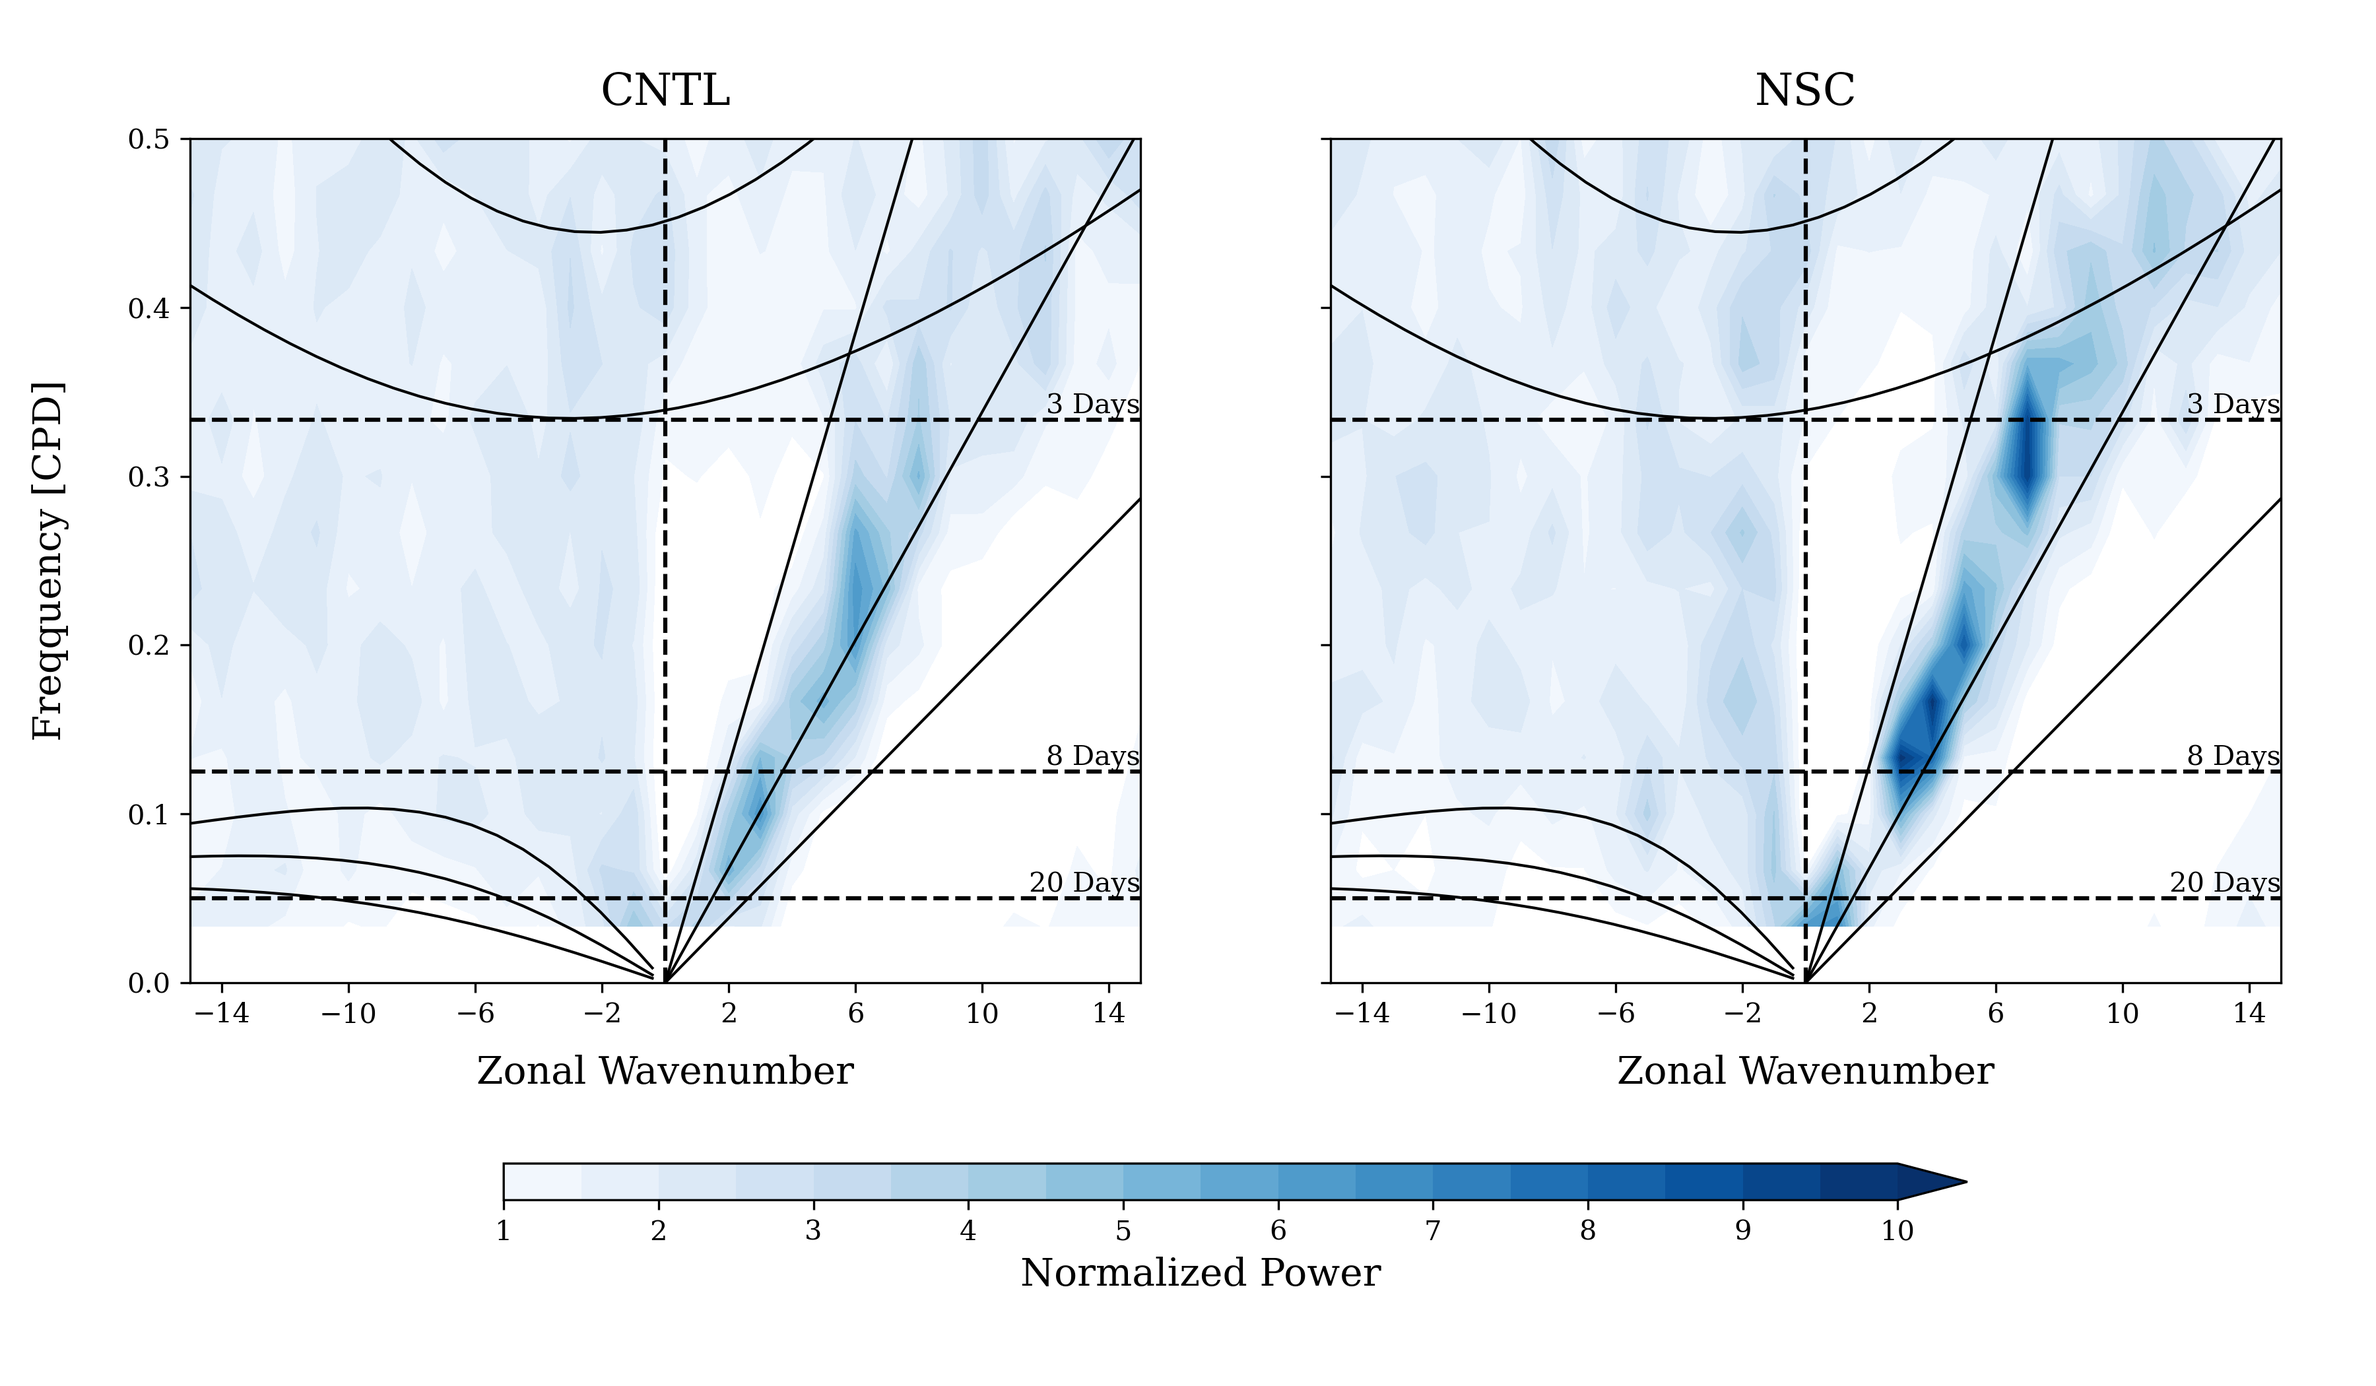
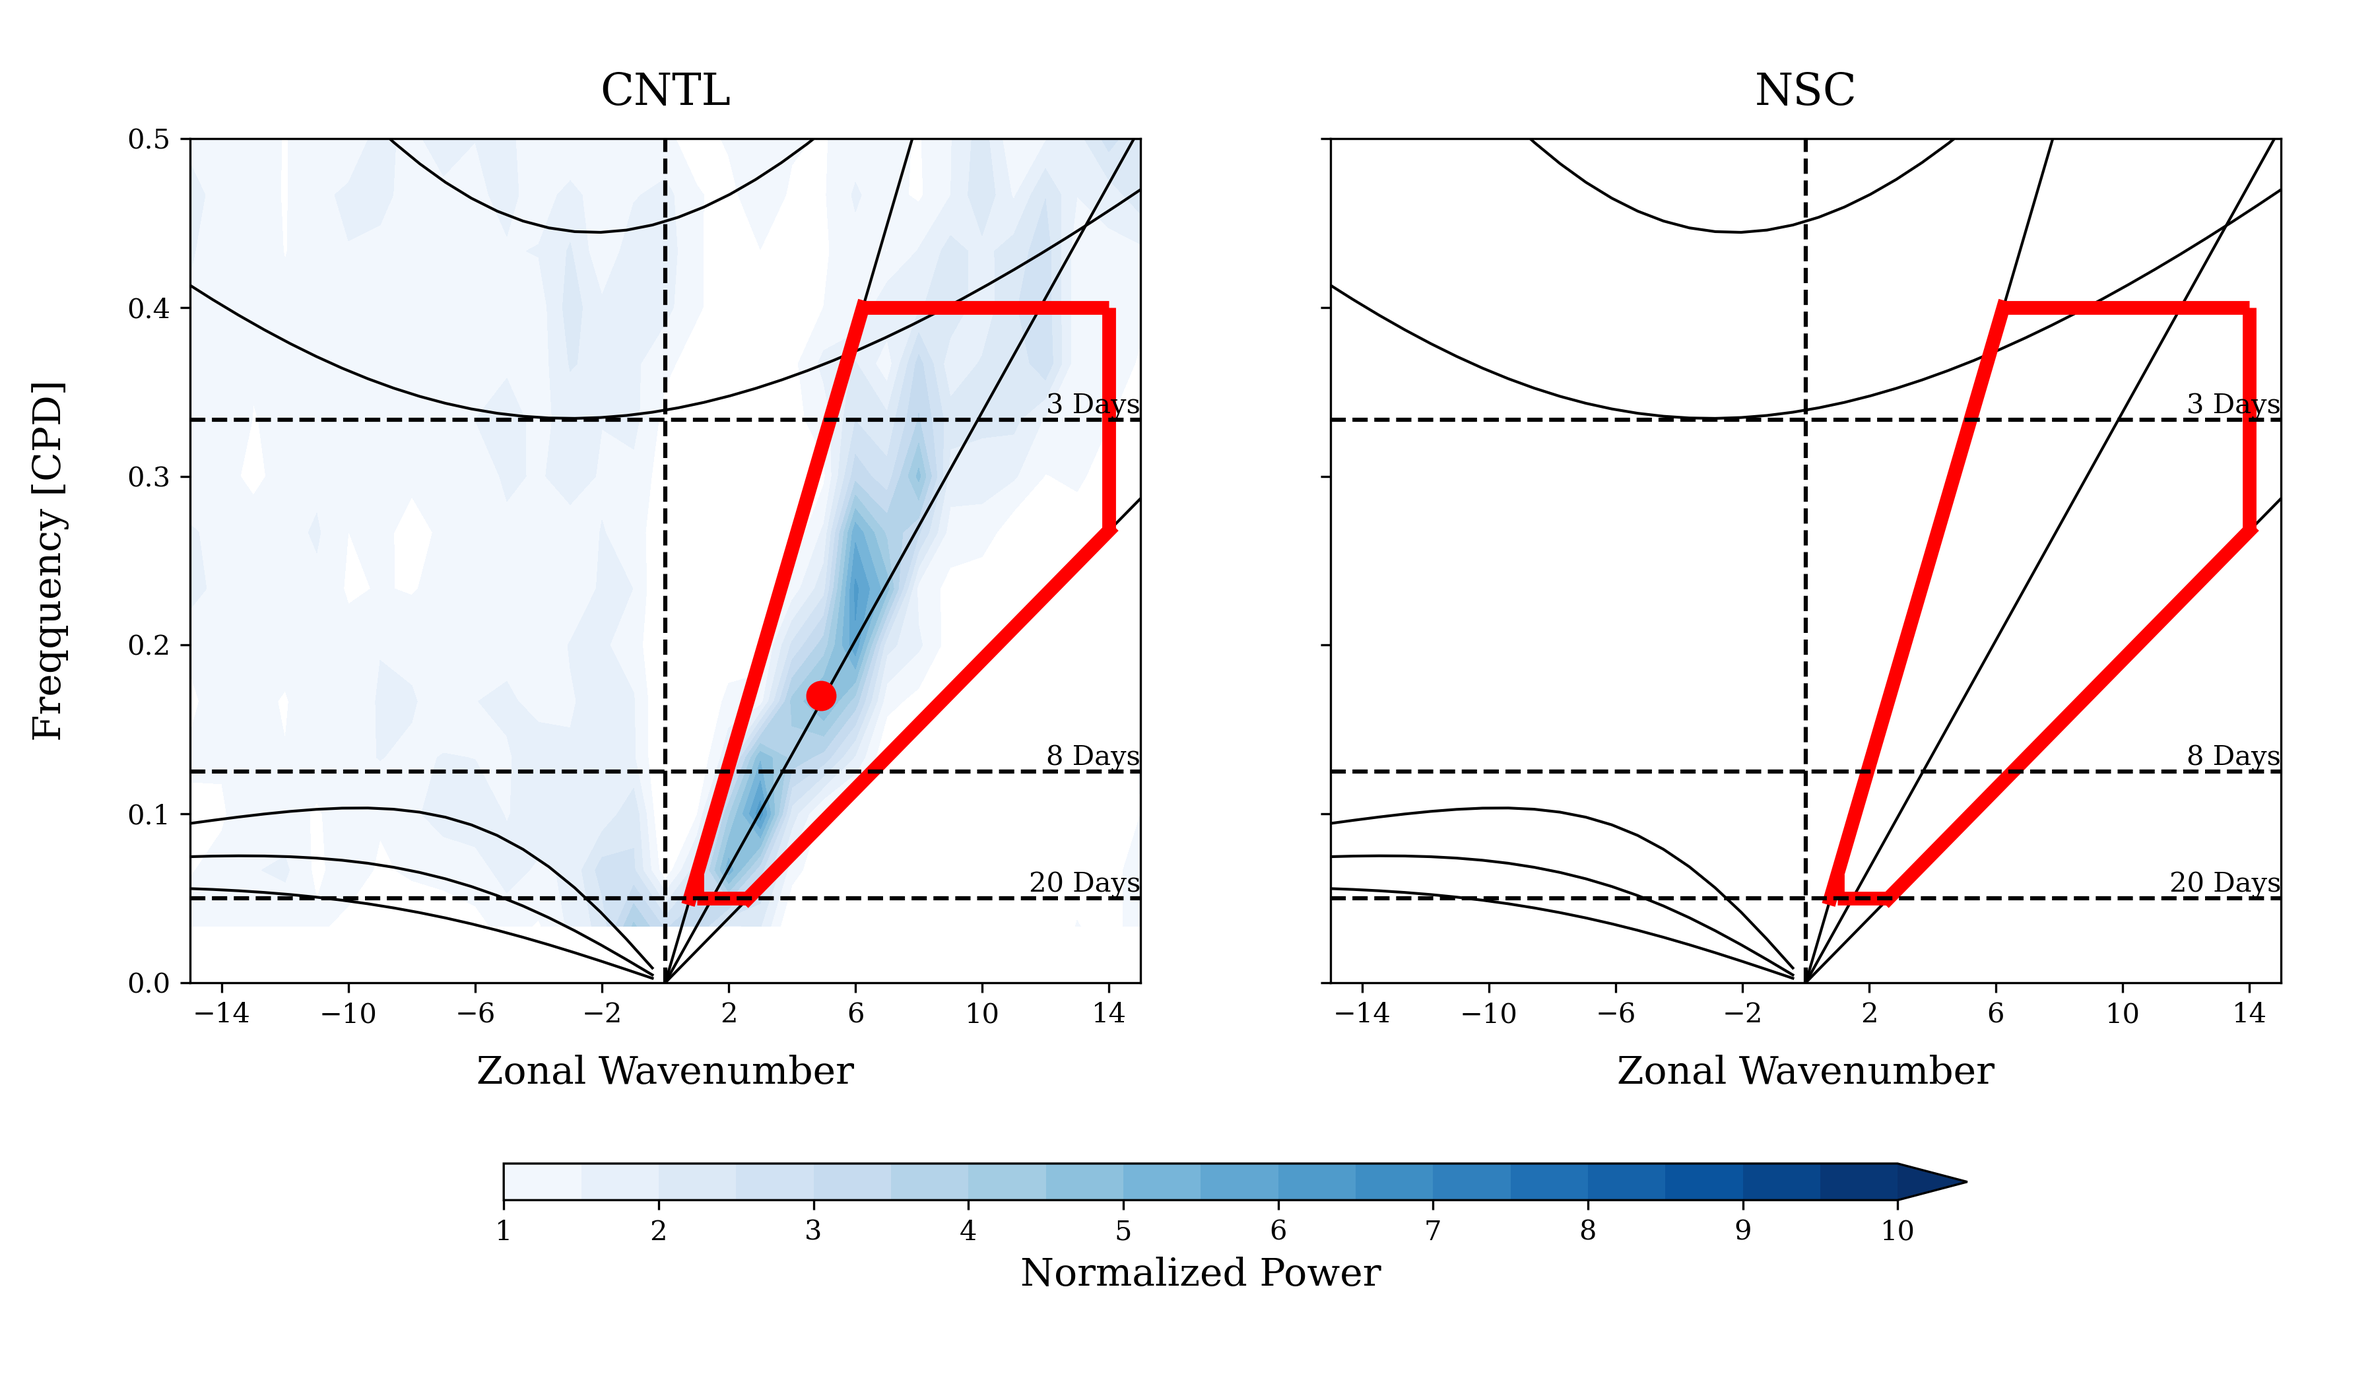
New temperature anomaly with dominant frequency

diff --git a/Major/CNTL_NSC/Power_Spectrum.py b/Major/CNTL_NSC/Power_Spectrum.py
@@ -30,8 +30,8 @@ with nc.Dataset(f"{path}CNTL/theta.nc", "r") as cntl:
     data["cntl"] = cntl.variables["theta"][:, :, lat_lim, :] * convert;
     
 # # NSC
-with nc.Dataset(f"{path}NSC/theta.nc", "r") as ncrf:
-    data["nsc"]  = ncrf.variables["theta"][:, :, lat_lim, :] * convert;
+with nc.Dataset(f"{path}NSC/theta.nc", "r") as nsc:
+    data["nsc"] = nsc.variables["theta"][:, :, lat_lim, :] * convert;
 
 ltime, llev, llat, llon = data["cntl"].shape;
 
@@ -45,22 +45,22 @@ data_rm_cli: dict[str, np.ndarray] = dict(
 
 # # Construct symmetric data
 data_sym: dict[str, np.ndarray] = dict(
-    (exp, ((data_rm_cli[exp] + np.flip(data_rm_cli[exp], axis=2)) / 2).sum(axis=2))
+    (exp, ((data_rm_cli[exp] + np.flip(data_rm_cli[exp], axis=2)) / 2))
     for exp in data_rm_cli.keys()
 );
 
 data_asy: dict[str, np.ndarray] = dict(
-    (exp, ((data_rm_cli[exp] - np.flip(data_rm_cli[exp], axis=2)) / 2).sum(axis=2))
+    (exp, ((data_rm_cli[exp] - np.flip(data_rm_cli[exp], axis=2)) / 2))
     for exp in data_rm_cli.keys()
 );
 
 # # Windowing
 lsec: int = 120;
-hanning: np.ndarray = np.hanning(lsec)[:, None, None];
+hanning: np.ndarray = np.hanning(lsec)[:, None, None, None];
 
 sym_window: dict[str, np.ndarray] = dict(
     (exp, np.array([
-        data_sym[exp][i*60:i*60+lsec, :, :] * hanning
+        data_sym[exp][i*60:i*60+lsec] * hanning
         for i in range(5)
     ]))
     for exp in data_sym.keys()
@@ -68,7 +68,7 @@ sym_window: dict[str, np.ndarray] = dict(
 
 asy_window: dict[str, np.ndarray] = dict(
     (exp, np.array([
-        data_asy[exp][i*60:i*60+lsec, :, :] * hanning
+        data_asy[exp][i*60:i*60+lsec] * hanning
         for i in range(5)
     ]))
     for exp in data_asy.keys()
@@ -80,19 +80,19 @@ def power_spec(
         data: np.ndarray,
 ) -> np.ndarray:
     fft: np.ndarray = np.fft.fft(data, axis=1);
-    fft: np.ndarray = np.fft.ifft(fft, axis=3) * data.shape[3];
+    fft: np.ndarray = np.fft.ifft(fft, axis=4) * data.shape[4];
 
-    ps : np.ndarray = (fft * fft.conj()) / (data.shape[1] * data.shape[3]) * 2;
+    ps : np.ndarray = (fft * fft.conj()) / (data.shape[1] * data.shape[4]) * 2;
 
     return ps.mean(axis=0).real;
 
 sym_ps: dict[str, np.ndarray] = dict(
-    (exp, power_spec(sym_window[exp]))
+    (exp, power_spec(sym_window[exp]).sum(axis=(2)))
     for exp in data.keys()
 );
 
 asy_ps: dict[str, np.ndarray] = dict(
-    (exp, power_spec(asy_window[exp]))
+    (exp, power_spec(asy_window[exp]).sum(axis=2))
     for exp in data.keys()
 );
 
@@ -145,64 +145,97 @@ sym_peak: dict[str, np.ndarray] = dict(
     for exp in data.keys()
 );
 
-wn: np.ndarray = np.fft.fftshift(np.fft.fftfreq(llon, d=1/llon).astype(int));
-fr: np.ndarray = np.fft.fftshift(np.fft.fftfreq(lsec, d=1/4));
+wn: np.ndarray = (np.fft.fftfreq(llon, d=1/llon).astype(int));
+fr: np.ndarray = (np.fft.fftfreq(lsec, d=1/4));
+
+wn_v: np.ndarray = np.fft.fftshift(wn);
+fr_v: np.ndarray = np.fft.fftshift(fr);
 
 fr_ana, wn_ana = th.genDispersionCurves(Ahe=[8, 25, 90]);
 e_cond = np.where(wn_ana[3, 0] <= 0)[0];
 
+
+# Compute dominant frequency and wavenumber
+wnm, frm = np.meshgrid(wn, fr);
+
+kelvin = lambda wn, eq: wn * np.sqrt(9.81*eq) * 86400 / (2*np.pi*6.371e6);
+kelvin_cond: tuple[int] = np.where(
+    (wnm >= 1) & (wnm <= 14) & (frm >= 1/20) & (frm <= 1/2.5) &
+    (frm >= kelvin(wnm, 8)) & (frm <= kelvin(wnm, 90))
+);
+
+cntl_wt_wn: np.ndarray = np.sum(wnm[kelvin_cond] * (sym_ps_weight["cntl"][kelvin_cond])) / np.sum(sym_ps_weight["cntl"][kelvin_cond]);
+cntl_wt_fr: np.ndarray = np.sum(frm[kelvin_cond] * (sym_ps_weight["cntl"][kelvin_cond])) / np.sum(sym_ps_weight["cntl"][kelvin_cond]);
+
+nsc_wt_wn: np.ndarray = np.sum(wnm[kelvin_cond] * (sym_ps_weight["nsc"][kelvin_cond])) / np.sum(sym_ps_weight["nsc"][kelvin_cond]);
+nsc_wt_fr: np.ndarray = np.sum(frm[kelvin_cond] * (sym_ps_weight["nsc"][kelvin_cond])) / np.sum(sym_ps_weight["nsc"][kelvin_cond]);
+
+print("Dominant Wavenumber and Frequency of CNTL:", cntl_wt_wn, cntl_wt_fr);
+print("Dominant Wavenumber and Frequency of NSC:", nsc_wt_wn, nsc_wt_fr);
+
+phase_speed = lambda wn, fr: 2*np.pi*6.371e6 * fr / (86400 * wn);
+
+print("Phase speed of cntl:", phase_speed(cntl_wt_wn, cntl_wt_fr));
+print("Phase speed of nsc:", phase_speed(nsc_wt_wn, nsc_wt_fr));
+
+# Figure
 plt.rcParams["font.family"] = "serif";
+
+kelvin = lambda wn, eq: wn * np.sqrt(9.81*eq) * 86400 / (2*np.pi*6.371e6);
+kelvin_inv = lambda fr, eq: fr * (2*np.pi*6.371e6) / (86400 * np.sqrt(9.81*eq));
+
+def plot_lines(
+    ax,
+    wn_ana: np.ndarray,
+    fr_ana: np.ndarray,
+) -> None:
+    for i in range(3):
+        ax.plot(wn_ana[3, i, e_cond], fr_ana[3, i, e_cond], color="black", linewidth=1);
+        ax.plot(wn_ana[4, i], fr_ana[4, i], color="black", linewidth=1);
+        ax.plot(wn_ana[3, i], fr_ana[5, i], color="black", linewidth=1);
+
+    ax.set_xticks(np.linspace(-14, 14, 8, dtype=int));
+    ax.set_yticks(np.linspace(0, 0.5, 6));
+    ax.hlines(y=1/20, xmin=1, xmax=kelvin_inv(1/20, 8), linestyle="-", color="red", linewidth=5);
+    ax.hlines(y=1/2.5, xmin=kelvin_inv(1/2.5, 90), xmax=14, linestyle="-", color="red", linewidth=5);
+    ax.vlines(x=1, ymin=1/20, ymax=kelvin(1, 90), linestyle="-", color="red", linewidth=5);
+    ax.vlines(x=14, ymin=kelvin(14, 8), ymax=1/2.5, linestyle="-", color="red", linewidth=5);
+    ax.plot(np.linspace(kelvin_inv(1/20, 90), kelvin_inv(1/2.5, 90), 100), kelvin(np.linspace(kelvin_inv(1/20, 90), kelvin_inv(1/2.5, 90), 100), 90), color="red", linewidth=5);
+    ax.plot(np.linspace(kelvin_inv(1/20, 8), 14, 100), kelvin(np.linspace(kelvin_inv(1/20, 8), 14, 100), 8), color="red", linewidth=5);
+    ax.axvline(0, linestyle="--", color="black")
+    ax.axhline(1/3 , linestyle="--", color="black");
+    ax.axhline(1/8 , linestyle="--", color="black");
+    ax.axhline(1/20, linestyle="--", color="black");
+    ax.text(15, 1/3 , "3 Days", ha="right", va="bottom");
+    ax.text(15, 1/8 , "8 Days", ha="right", va="bottom");
+    ax.text(15, 1/20, "20 Days", ha="right", va="bottom");
+
 
 fig, ax = plt.subplots(1, 2, figsize=(12, 7), sharey=True);
 plt.subplots_adjust(left=0.08, right=0.96, bottom=0.03, top=0.9);
 cntl_ps = ax[0].contourf(
-    wn, fr[fr>0],
-    np.fft.fftshift(sym_peak["cntl"])[fr>0],
+    wn_v, fr_v[fr_v>0],
+    np.fft.fftshift(sym_peak["cntl"])[fr_v>0],
     cmap="Blues",
     levels=np.linspace(1, 10, 19),
     extend="max",
 );
-for i in range(3):
-    ax[0].plot(wn_ana[3, i, e_cond], fr_ana[3, i, e_cond], color="black", linewidth=1);
-    ax[0].plot(wn_ana[4, i], fr_ana[4, i], color="black", linewidth=1);
-    ax[0].plot(wn_ana[3, i], fr_ana[5, i], color="black", linewidth=1);
-ax[0].set_xticks(np.linspace(-14, 14, 8, dtype=int));
-ax[0].set_yticks(np.linspace(0, 0.5, 6));
-ax[0].axvline(0, linestyle="--", color="black")
-ax[0].axhline(1/3 , linestyle="--", color="black");
-ax[0].axhline(1/8 , linestyle="--", color="black");
-ax[0].axhline(1/20, linestyle="--", color="black");
-ax[0].text(15, 1/3 , "3 Days", ha="right", va="bottom");
-ax[0].text(15, 1/8 , "8 Days", ha="right", va="bottom");
-ax[0].text(15, 1/20, "20 Days", ha="right", va="bottom");
+plot_lines(ax[0], wn_ana, fr_ana);
+ax[0].plot(cntl_wt_wn, cntl_wt_fr, "ro", markersize=10);
 ax[0].text(0, -0.06, "Zonal Wavenumber", ha="center", fontsize=14);
 ax[0].text(-20, 0.25, "Freqquency [CPD]", va="center", rotation=90, fontsize=14);
 ax[0].set_xlim(-15, 15);
 ax[0].set_ylim(0, 1/2);
 ax[0].text(0, 0.52, "CNTL", ha="center", fontsize=16)
 
-
-
 nsc_ps = ax[1].contourf(
-    wn, fr[fr>0],
-    np.fft.fftshift(sym_peak["nsc"])[fr>0],
+    wn_v, fr_v[fr>0],
+    np.fft.fftshift(sym_peak["nsc"])[fr_v>0],
     cmap="Blues",
     levels=np.linspace(1, 10, 19),
     extend="max",
 );
-for i in range(3):
-    ax[1].plot(wn_ana[3, i, e_cond], fr_ana[3, i, e_cond], color="black", linewidth=1);
-    ax[1].plot(wn_ana[4, i], fr_ana[4, i], color="black", linewidth=1);
-    ax[1].plot(wn_ana[3, i], fr_ana[5, i], color="black", linewidth=1);
-ax[1].set_xticks(np.linspace(-14, 14, 8, dtype=int));
-ax[1].set_yticks(np.linspace(0, 0.5, 6));
-ax[1].axvline(0, linestyle="--", color="black")
-ax[1].axhline(1/3 , linestyle="--", color="black");
-ax[1].axhline(1/8 , linestyle="--", color="black");
-ax[1].axhline(1/20, linestyle="--", color="black");
-ax[1].text(15, 1/3 , "3 Days", ha="right", va="bottom");
-ax[1].text(15, 1/8 , "8 Days", ha="right", va="bottom");
-ax[1].text(15, 1/20, "20 Days", ha="right", va="bottom");
+plot_lines(ax[1], wn_ana, fr_ana);
 ax[1].text(0, -0.06, "Zonal Wavenumber", ha="center", fontsize=14);
 ax[1].set_xlim(-15, 15);
 ax[1].set_ylim(0, 1/2);
@@ -212,3 +245,4 @@ cbar = plt.colorbar(nsc_ps, ax=ax, orientation="horizontal", aspect=40, shrink=0
 cbar.set_label("Normalized Power", fontsize=14);
 
 plt.savefig("/home/b11209013/Bachelor_Thesis/Major/Figure/Figure06.png", dpi=300);
+plt.show();

diff --git a/Major/CNTL_NCRF/Power_Spectrum.py b/Major/CNTL_NCRF/Power_Spectrum.py
@@ -45,22 +45,22 @@ data_rm_cli: dict[str, np.ndarray] = dict(
 
 # # Construct symmetric data
 data_sym: dict[str, np.ndarray] = dict(
-    (exp, ((data_rm_cli[exp] + np.flip(data_rm_cli[exp], axis=2)) / 2).sum(axis=2))
+    (exp, ((data_rm_cli[exp] + np.flip(data_rm_cli[exp], axis=2)) / 2))
     for exp in data_rm_cli.keys()
 );
 
 data_asy: dict[str, np.ndarray] = dict(
-    (exp, ((data_rm_cli[exp] - np.flip(data_rm_cli[exp], axis=2)) / 2).sum(axis=2))
+    (exp, ((data_rm_cli[exp] - np.flip(data_rm_cli[exp], axis=2)) / 2))
     for exp in data_rm_cli.keys()
 );
 
 # # Windowing
 lsec: int = 120;
-hanning: np.ndarray = np.hanning(lsec)[:, None, None];
+hanning: np.ndarray = np.hanning(lsec)[:, None, None, None];
 
 sym_window: dict[str, np.ndarray] = dict(
     (exp, np.array([
-        data_sym[exp][i*60:i*60+lsec, :, :] * hanning
+        data_sym[exp][i*60:i*60+lsec] * hanning
         for i in range(5)
     ]))
     for exp in data_sym.keys()
@@ -68,7 +68,7 @@ sym_window: dict[str, np.ndarray] = dict(
 
 asy_window: dict[str, np.ndarray] = dict(
     (exp, np.array([
-        data_asy[exp][i*60:i*60+lsec, :, :] * hanning
+        data_asy[exp][i*60:i*60+lsec] * hanning
         for i in range(5)
     ]))
     for exp in data_asy.keys()
@@ -80,19 +80,19 @@ def power_spec(
         data: np.ndarray,
 ) -> np.ndarray:
     fft: np.ndarray = np.fft.fft(data, axis=1);
-    fft: np.ndarray = np.fft.ifft(fft, axis=3) * data.shape[3];
+    fft: np.ndarray = np.fft.ifft(fft, axis=4) * data.shape[4];
 
-    ps : np.ndarray = (fft * fft.conj()) / (data.shape[1] * data.shape[3]) * 2;
+    ps : np.ndarray = (fft * fft.conj()) / (data.shape[1] * data.shape[4]) * 2;
 
     return ps.mean(axis=0).real;
 
 sym_ps: dict[str, np.ndarray] = dict(
-    (exp, power_spec(sym_window[exp]))
+    (exp, power_spec(sym_window[exp]).sum(axis=(2)))
     for exp in data.keys()
 );
 
 asy_ps: dict[str, np.ndarray] = dict(
-    (exp, power_spec(asy_window[exp]))
+    (exp, power_spec(asy_window[exp]).sum(axis=2))
     for exp in data.keys()
 );
 
@@ -139,6 +139,9 @@ def background(data, nsmooth=20):
 bg: np.ndarray = background(
     (sym_ps_weight["cntl"] + asy_ps_weight["cntl"])/2
 );
+
+print(bg.sum(),np.sum((sym_ps_weight["cntl"] + asy_ps_weight["cntl"])/2
+) );
 
 sym_peak: dict[str, np.ndarray] = dict(
     (exp, sym_ps_weight[exp] / bg)
@@ -212,3 +215,88 @@ cbar = plt.colorbar(ncrf_ps, ax=ax, orientation="horizontal", aspect=40, shrink=
 cbar.set_label("Normalized Power", fontsize=14);
 
 plt.savefig("/home/b11209013/Bachelor_Thesis/Major/Figure/Figure04.png", dpi=300);
+plt.show();
+
+# %% Section 5
+# Sum variance associated with the CCKWs
+
+fig, ax = plt.subplots(1, 2, figsize=(12, 7), sharey=True);
+plt.subplots_adjust(left=0.08, right=0.96, bottom=0.03, top=0.9);
+cntl_ps = ax[0].contourf(
+    wn, fr[fr>0],
+    np.log(np.fft.fftshift(sym_ps_weight["cntl"])[fr>0]),
+    cmap="Blues",
+    levels=np.arange(5., 12.6, 0.5),
+    extend="both",
+);
+for i in range(3):
+    ax[0].plot(wn_ana[3, i, e_cond], fr_ana[3, i, e_cond], color="black", linewidth=1);
+    ax[0].plot(wn_ana[4, i], fr_ana[4, i], color="black", linewidth=1);
+    ax[0].plot(wn_ana[3, i], fr_ana[5, i], color="black", linewidth=1);
+ax[0].set_xticks(np.linspace(-14, 14, 8, dtype=int));
+ax[0].set_yticks(np.linspace(0, 0.5, 6));
+ax[0].axvline(0, linestyle="--", color="black")
+ax[0].axhline(1/3 , linestyle="--", color="black");
+ax[0].axhline(1/8 , linestyle="--", color="black");
+ax[0].axhline(1/20, linestyle="--", color="black");
+ax[0].text(15, 1/3 , "3 Days", ha="right", va="bottom");
+ax[0].text(15, 1/8 , "8 Days", ha="right", va="bottom");
+ax[0].text(15, 1/20, "20 Days", ha="right", va="bottom");
+ax[0].text(0, -0.06, "Zonal Wavenumber", ha="center", fontsize=14);
+ax[0].text(-20, 0.25, "Freqquency [CPD]", va="center", rotation=90, fontsize=14);
+ax[0].set_xlim(-15, 15);
+ax[0].set_ylim(0, 1/2);
+ax[0].text(0, 0.52, "CNTL", ha="center", fontsize=16)
+
+
+
+ncrf_ps = ax[1].contourf(
+    wn, fr[fr>0],
+    np.log(np.fft.fftshift(sym_ps_weight["ncrf"])[fr>0]),
+    cmap="Blues",
+    levels=np.arange(5, 12.6, 0.5),
+    extend="both",
+);
+for i in range(3):
+    ax[1].plot(wn_ana[3, i, e_cond], fr_ana[3, i, e_cond], color="black", linewidth=1);
+    ax[1].plot(wn_ana[4, i], fr_ana[4, i], color="black", linewidth=1);
+    ax[1].plot(wn_ana[3, i], fr_ana[5, i], color="black", linewidth=1);
+ax[1].set_xticks(np.linspace(-14, 14, 8, dtype=int));
+ax[1].set_yticks(np.linspace(0, 0.5, 6));
+ax[1].axvline(0, linestyle="--", color="black")
+ax[1].axhline(1/3 , linestyle="--", color="black");
+ax[1].axhline(1/8 , linestyle="--", color="black");
+ax[1].axhline(1/20, linestyle="--", color="black");
+ax[1].text(15, 1/3 , "3 Days", ha="right", va="bottom");
+ax[1].text(15, 1/8 , "8 Days", ha="right", va="bottom");
+ax[1].text(15, 1/20, "20 Days", ha="right", va="bottom");
+ax[1].text(0, -0.06, "Zonal Wavenumber", ha="center", fontsize=14);
+ax[1].set_xlim(-15, 15);
+ax[1].set_ylim(0, 1/2);
+ax[1].text(0, 0.52, "NCRF", ha="center", fontsize=16)
+
+cbar = plt.colorbar(ncrf_ps, ax=ax, orientation="horizontal", aspect=40, shrink=0.7)
+cbar.set_label("Normalized Power", fontsize=14);
+
+plt.show();
+
+# # Kelvin waves
+wnm, frm = np.meshgrid(wn, fr[fr>0]);
+
+kelvin = lambda wn, eq: wn * np.sqrt(9.81*eq) * 86400 / (2*np.pi*6.371e6);
+
+kelvin_cond: tuple[int] = np.where(
+    (wnm >= 1) & (wnm <= 14) &
+    (frm >= 1/20) & (frm <= 1/2.5) & 
+    (frm <= kelvin(wnm, 90)) & (frm >= kelvin(wnm, 8)),
+    1, 0
+);
+
+plt.contourf(wn, fr[fr>0], kelvin_cond * sym_ps_weight["ncrf"][fr>0], cmap="binary");
+plt.xlim(-15, 15);
+plt.ylim(0, 1/2)
+plt.colorbar();
+cntl_var = np.nansum(kelvin_cond * (sym_ps_weight["cntl"])[fr>0]);
+ncrf_var = np.nansum(kelvin_cond * (sym_ps_weight["ncrf"])[fr>0]);
+print("CNTL variance sum: ", cntl_var);
+print("NCRF variance sum: ", ncrf_var);
